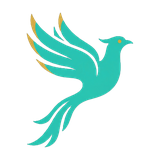
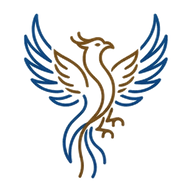
v3.8.74-preview: Simorgh phoenix on the requester card, preview and thread (frontend only) (#321)
Vahid, 14 Sep: the ticket header still showed "S·" for the Simorgh
requester. The Simorgh app's own header mark (blue/gold phoenix,
bird-light/bird-dark) replaces the teal bird everywhere the agent appears:
- utils/integrationIdentity: requesterIntegrationIdentity(requester) keyed on
  simorgh@bgcengineering.ca (name fallback); avatarDarkUrl on both identities.
- components/tickets/IntegrationAvatar: shared round avatar, light/dark swap.
- TicketDetail requester card + thread, TicketPreview requester card.
- public/brand/integrations/simorgh.png (ground made transparent) + simorgh-dark.png.
Frontend-only: backend/package.json untouched.

Claude-Session: https://claude.ai/code/session_01LV2kFZJT4hSMQD8hvtBoKD

Changed region(s): [[0.125, 0.0625, 0.875, 0.9375]]

diff --git a/frontend/src/pages/TicketDetail.jsx b/frontend/src/pages/TicketDetail.jsx
@@ -18,7 +18,8 @@ import RequestApprovalModal from '../components/tickets/RequestApprovalModal';
 import ResolveReasonModal from '../components/tickets/ResolveReasonModal';
 import { ticketNeedsResolutionReason, reasonLabel } from '../utils/resolutionReasons';
 import { plainTextToHtml } from '../utils/plainTextToHtml';
-import { integrationIdentity } from '../utils/integrationIdentity';
+import { integrationIdentity, requesterIntegrationIdentity } from '../utils/integrationIdentity';
+import { IntegrationAvatar } from '../components/tickets/IntegrationAvatar';
 import AppHeader from '../components/AppHeader';
 import MobileTabBar from '../components/nav/MobileTabBar';
 import AiAssignModal from '../components/tickets/AiAssignModal';
@@ -481,16 +482,7 @@ export function ThreadEntry({ entry, attachments = [], onPreview, onImageRef, ph
   const avatar = (
     <div className="flex-shrink-0 flex flex-col items-center gap-1 pt-0.5 w-12">
       {integration ? (
-        <span
-          className={`h-10 w-10 rounded-full flex items-center justify-center shadow-subtle overflow-hidden ring-1 ${
-            integration.key === 'rostam'
-              ? 'bg-slate-900 ring-teal-400/60'
-              : 'bg-teal-50 dark:bg-teal-500/15 ring-teal-300/70 dark:ring-teal-400/40'
-          }`}
-          title={`${integration.name} — ${integration.subtitle}`}
-        >
-          <img src={integration.avatarUrl} alt={integration.name} className={`h-full w-full ${integration.key === 'rostam' ? 'object-cover' : 'object-contain p-1'}`} />
-        </span>
+        <IntegrationAvatar identity={integration} size="h-10 w-10" />
       ) : isTicketPulse ? (
         <span className="h-10 w-10 rounded-full bg-gradient-to-br from-blue-50 dark:from-blue-500/15 to-indigo-100 dark:to-indigo-500/20 border border-blue-200 dark:border-blue-500/30 flex items-center justify-center shadow-subtle overflow-hidden" title="Ticket Pulse">
           <img src="/brand/logo-mark.png" alt="Ticket Pulse" className="h-full w-full object-contain p-0.5" />
@@ -2424,7 +2416,9 @@ export default function TicketDetail() {
                   {ticket.requester ? (
                     <div>
                       <div className="flex items-center gap-3">
-                        {requesterPhoto ? (
+                        {requesterIntegrationIdentity(ticket.requester) ? (
+                          <IntegrationAvatar identity={requesterIntegrationIdentity(ticket.requester)} size="h-12 w-12" className="ring-2" />
+                        ) : requesterPhoto ? (
                           <img src={requesterPhoto} alt="" className="h-12 w-12 rounded-full object-cover ring-2 ring-card shadow-subtle flex-shrink-0" />
                         ) : (
                           <PersonAvatar name={ticket.requester.name} size="h-12 w-12" textSize="text-base" />

diff --git a/frontend/src/utils/integrationIdentity.test.js b/frontend/src/utils/integrationIdentity.test.js
@@ -1,5 +1,5 @@
 import { describe, expect, test } from 'vitest';
-import { integrationIdentity } from './integrationIdentity';
+import { integrationIdentity, requesterIntegrationIdentity } from './integrationIdentity';
 
 describe('integrationIdentity — Simorgh and Rostam get their own avatars and names', () => {
   test('a tier-2 note keyed on rawPayload is Rostam', () => {
@@ -14,6 +14,12 @@ describe('integrationIdentity — Simorgh and Rostam get their own avatars and n
   test('a plain Simorgh note is Simorgh, with the tier when one is given', () => {
     expect(integrationIdentity({ actorName: 'Simorgh', rawPayload: null })).toMatchObject({ key: 'simorgh', name: 'Simorgh', subtitle: 'Security agent' });
     expect(integrationIdentity({ actorName: 'Simorgh · Tier 1', rawPayload: { stage: 'tier1', agent: null } })).toMatchObject({ key: 'simorgh', subtitle: 'Simorgh · Tier 1' });
+  });
+
+  test('the Simorgh requester mailbox gets the phoenix; people do not', () => {
+    expect(requesterIntegrationIdentity({ name: 'Simorgh · Security Operations', email: 'simorgh@bgcengineering.ca' })).toMatchObject({ key: 'simorgh', avatarUrl: '/brand/integrations/simorgh.png', avatarDarkUrl: '/brand/integrations/simorgh-dark.png' });
+    expect(requesterIntegrationIdentity({ name: 'Rita Example', email: 'rita@example.com' })).toBeNull();
+    expect(requesterIntegrationIdentity(null)).toBeNull();
   });
 
   test('people and other systems are untouched', () => {

diff --git a/frontend/src/components/tickets/IntegrationAvatar.jsx b/frontend/src/components/tickets/IntegrationAvatar.jsx
@@ -1,0 +1,31 @@
+
+/**
+ * Round avatar for an integration voice (Simorgh phoenix, Rostam). The
+ * Simorgh mark has a light and a dark rendering — the app's own header uses
+ * the blue/gold phoenix on both grounds — so the light one shows by default
+ * and the dark one takes over under `.dark`.
+ */
+export function IntegrationAvatar({ identity, size = 'h-10 w-10', className = '' }) {
+  if (!identity) return null;
+  const rostam = identity.key === 'rostam';
+  const ring = rostam
+    ? 'bg-slate-900 ring-teal-400/60'
+    : 'bg-sky-50 dark:bg-slate-900 ring-sky-200/80 dark:ring-sky-500/40';
+  return (
+    <span
+      className={`${size} rounded-full flex items-center justify-center shadow-subtle overflow-hidden ring-1 flex-shrink-0 ${ring} ${className}`}
+      title={`${identity.name} — ${identity.subtitle}`}
+    >
+      {rostam ? (
+        <img src={identity.avatarUrl} alt={identity.name} className="h-full w-full object-cover" />
+      ) : (
+        <>
+          <img src={identity.avatarUrl} alt={identity.name} className="h-full w-full object-contain p-1 dark:hidden" />
+          <img src={identity.avatarDarkUrl || identity.avatarUrl} alt="" aria-hidden="true" className="h-full w-full object-contain p-0.5 hidden dark:block" />
+        </>
+      )}
+    </span>
+  );
+}
+
+export default IntegrationAvatar;

diff --git a/frontend/src/utils/integrationIdentity.js b/frontend/src/utils/integrationIdentity.js
@@ -14,8 +14,26 @@
  */
 const AVATARS = {
   simorgh: '/brand/integrations/simorgh.png',
+  simorghDark: '/brand/integrations/simorgh-dark.png',
   rostam: '/brand/integrations/rostam.png',
 };
+
+/** Requester records that belong to an integration, keyed on the address. */
+const INTEGRATION_REQUESTERS = {
+  'simorgh@bgcengineering.ca': 'simorgh',
+};
+
+/**
+ * The requester card: the Simorgh mailbox is an application, not a person —
+ * give it the phoenix instead of "S·" initials.
+ */
+export function requesterIntegrationIdentity(requester) {
+  if (!requester) return null;
+  const email = String(requester.email || '').trim().toLowerCase();
+  const key = INTEGRATION_REQUESTERS[email] || (/^Simorgh\b/i.test(String(requester.name || '')) ? 'simorgh' : null);
+  if (key !== 'simorgh') return null;
+  return { key: 'simorgh', name: 'Simorgh', subtitle: 'Security agent', avatarUrl: AVATARS.simorgh, avatarDarkUrl: AVATARS.simorghDark, tone: 'simorgh' };
+}
 
 export function integrationIdentity(entry) {
   if (!entry) return null;
@@ -41,6 +59,7 @@ export function integrationIdentity(entry) {
       name: agent || 'Simorgh',
       subtitle: tier ? `Simorgh · Tier ${tier}` : 'Security agent',
       avatarUrl: AVATARS.simorgh,
+      avatarDarkUrl: AVATARS.simorghDark,
       tone: 'simorgh',
     };
   }

diff --git a/frontend/src/components/tickets/TicketPreview.jsx b/frontend/src/components/tickets/TicketPreview.jsx
@@ -1,4 +1,6 @@
 import { useCallback, useEffect, useMemo, useRef, useState } from 'react';
+import { requesterIntegrationIdentity } from '../../utils/integrationIdentity';
+import { IntegrationAvatar } from './IntegrationAvatar';
 import { Link, useLocation, useNavigate } from 'react-router-dom';
 import {
   Activity, Bot, CalendarDays, Check, ChevronDown, ChevronUp, ExternalLink, Hand, Inbox,
@@ -410,7 +412,9 @@ export default function TicketPreview({ ticketId, meta, pulse = 0, onClose, onCh
             {/* Requester card: photo, role, contact, helpdesk history */}
             <div className="rounded-xl border border-border/60 bg-muted/35 p-3">
               <div className="flex items-start gap-3">
-                {requesterPhoto ? (
+                {requesterIntegrationIdentity(ticket.requester) ? (
+                  <IntegrationAvatar identity={requesterIntegrationIdentity(ticket.requester)} size="h-11 w-11" className="ring-2" />
+                ) : requesterPhoto ? (
                   <img src={requesterPhoto} alt="" className="h-11 w-11 rounded-full object-cover ring-2 ring-card shadow-subtle flex-shrink-0" />
                 ) : (
                   <PersonAvatar name={ticket.requester?.name} size="h-11 w-11" textSize="text-sm" />

diff --git a/frontend/src/data/changelog.js b/frontend/src/data/changelog.js
@@ -1,6 +1,13 @@
-export const APP_VERSION = '3.8.73-preview';
+export const APP_VERSION = '3.8.74-preview';
 
 export const changelog = [
+  {
+    version: '3.8.74-preview',
+    date: 'September 14, 2026',
+    entries: [
+      { type: 'improved', html: '<strong>🦅 The Simorgh phoenix, everywhere the security agent appears</strong> — the requester card in the ticket header and the preview panel show the Simorgh application’s own blue-and-gold phoenix instead of “S·” initials, and the thread now uses the same mark (light and dark renderings). Rostam keeps his avatar.' },
+    ],
+  },
   {
     version: '3.8.73-preview',
     date: 'September 14, 2026',
